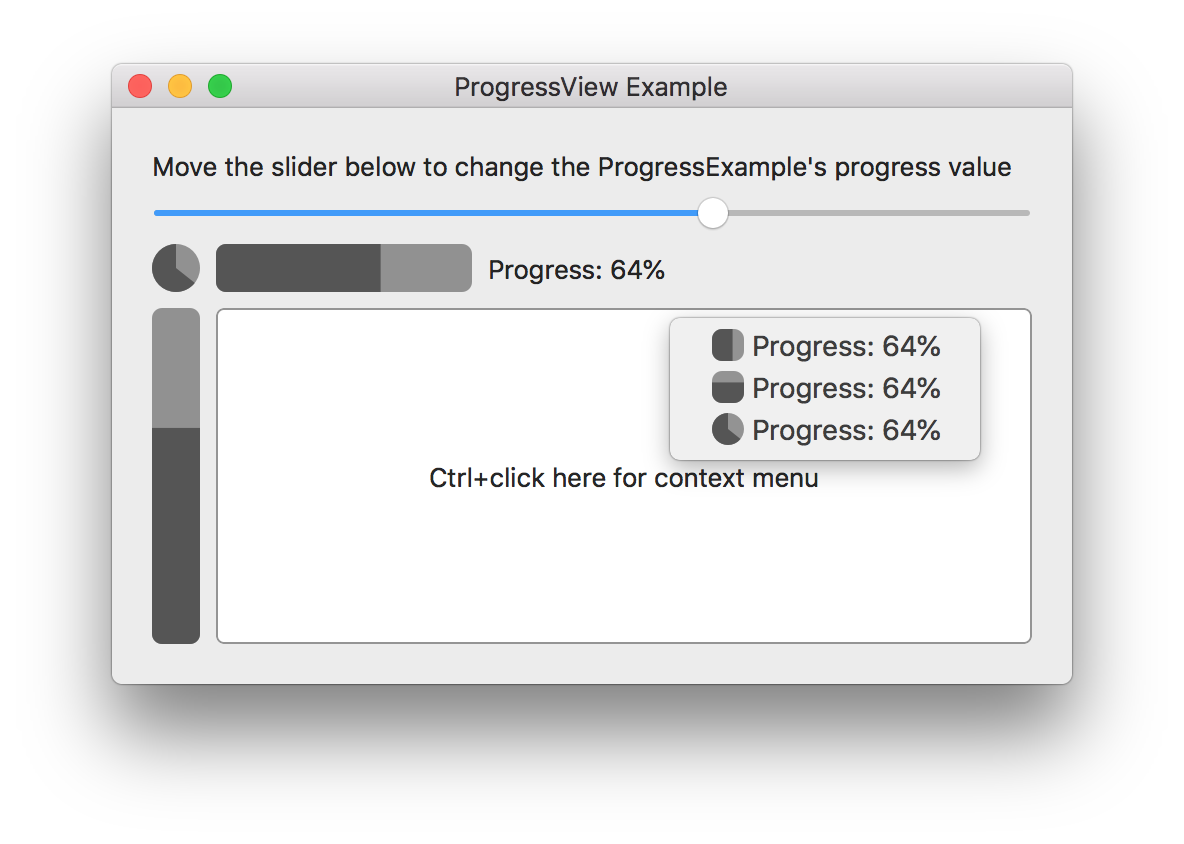
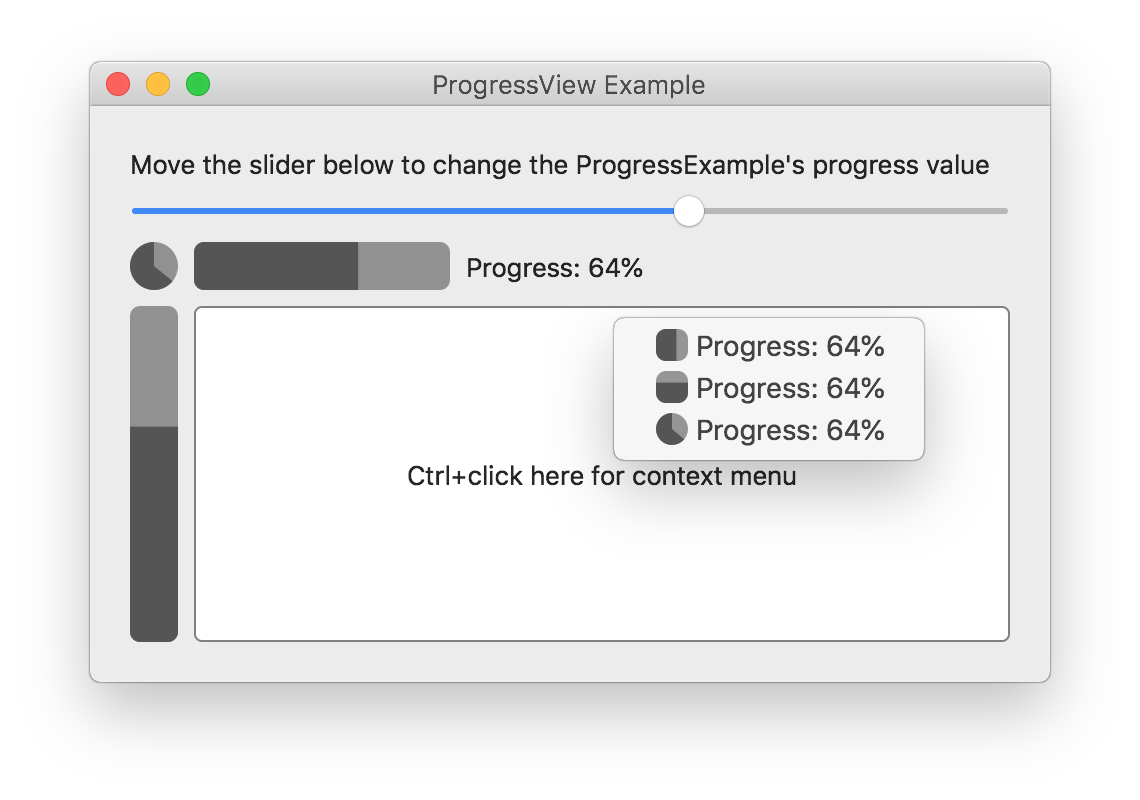
Now supporting Mojave’s dark mode

Changed region(s): [[0.0614, 0.0625, 0.9211, 0.875]]

diff --git a/Source/ProgressImage.swift b/Source/ProgressImage.swift
@@ -65,6 +65,24 @@ public class ProgressImage: NSImage {
 		}
 	}
 	
+	public var colorDarkMode = NSColor.lightGray {
+		didSet {
+			if let srgbColor = colorDarkMode.usingColorSpace(.sRGB) {
+				let red = srgbColor.cgColor.components?[0] ?? 0.5
+				let green = srgbColor.cgColor.components?[1] ?? 0.5
+				let blue = srgbColor.cgColor.components?[2] ?? 0.5
+				let alpha = srgbColor.cgColor.alpha
+				progressColorDarkMode = NSColor(red:red, green:green, blue:blue, alpha: alpha)
+				progressBackgroundColorDarkMode = NSColor(red:red, green:green, blue:blue, alpha: alpha * backgroundOpacity)
+			}
+			else {
+				progressColorDarkMode = NSColor(red:0.5, green:0.5, blue:0.5, alpha: 1.0)
+				progressBackgroundColorDarkMode = NSColor(red:0.5, green:0.5, blue:0.5, alpha: backgroundOpacity)
+			}
+			redrawProgressBar()
+		}
+	}
+	
 	public var progress:CGFloat = 0.0 {
 		didSet {
 			if progress < 0.0 { progress = 0.0 }
@@ -75,10 +93,12 @@ public class ProgressImage: NSImage {
 	
 	// MARK: - Private instance properties
 	
-	
 	private var progressColor = NSColor.darkGray
 	private var progressBackgroundColor = NSColor.darkGray
 	
+	private var progressColorDarkMode = NSColor.lightGray
+	private var progressBackgroundColorDarkMode = NSColor.lightGray
+
 	// MARK: - Initializers
 	
 	public init() {
@@ -121,12 +141,24 @@ public class ProgressImage: NSImage {
 		// Set default color (dark gray)
 		// This must be the last call, this will redraw the progressbar
 		self.color = NSColor.darkGray
+		self.colorDarkMode = NSColor.lightGray
 	}
 	
 	// MARK: - Custom draw function
 	
 	private func redrawProgressBar() {
 		let imgRect = NSRect(origin: CGPoint.zero, size: size)
+		
+		let isDarkModeEnabled:Bool
+		// !!! Uncomment for Xcode10 !!!
+//		if #available(macOS 10.14, *) {
+//			isDarkModeEnabled = (NSApp.effectiveAppearance.name == .darkAqua)
+//		} else {
+			isDarkModeEnabled = false
+//		}
+		
+		let drawColor = isDarkModeEnabled ? progressColorDarkMode : progressColor
+		let drawColorBackground = isDarkModeEnabled ? progressBackgroundColorDarkMode : progressBackgroundColor
 		
 		self.lockFocus()
 		let context = NSGraphicsContext.current?.cgContext
@@ -141,28 +173,28 @@ public class ProgressImage: NSImage {
 			
 			// Draw background
 			let bezierPath = NSBezierPath(roundedRect: imgRect, xRadius: cornerRadius, yRadius: cornerRadius)
-			progressBackgroundColor.setFill()
+			drawColorBackground.setFill()
 			bezierPath.fill()
 			
 			// Set mask for drawing the progress meter
 			context?.clip(to: CGRect(origin: CGPoint.zero, size: CGSize(width: size.width*progress, height: size.height)))
 			
 			// Draw progress meter (same frame as the background but masked and with different color)
-			progressColor.setFill()
+			drawColor.setFill()
 			bezierPath.fill()
 			
 		case .vertical:
 			
 			// Draw background
 			let bezierPath = NSBezierPath(roundedRect: imgRect, xRadius: cornerRadius, yRadius: cornerRadius)
-			progressBackgroundColor.setFill()
+			drawColorBackground.setFill()
 			bezierPath.fill()
 			
 			// Set mask for drawing the progress meter
 			context?.clip(to: CGRect(origin: CGPoint.zero, size: CGSize(width: size.width, height: size.height*progress)))
 			
 			// Draw progress meter (same frame as the background but masked and with different color)
-			progressColor.setFill()
+			drawColor.setFill()
 			bezierPath.fill()
 			
 		case .pie:
@@ -174,7 +206,7 @@ public class ProgressImage: NSImage {
 			let backgroundPath = NSBezierPath()
 			backgroundPath.appendArc(withCenter: center, radius: radius, startAngle: 0.0, endAngle: 360.0)
 			
-			progressBackgroundColor.setFill()
+			drawColorBackground.setFill()
 			backgroundPath.fill()
 			
 			// Draw the "pie graph"
@@ -188,7 +220,7 @@ public class ProgressImage: NSImage {
 			// Closing the path draws a line from the end point of the arc back to the center
 			piePath.close()
 			// Draw the pie
-			progressColor.setFill()
+			drawColor.setFill()
 			piePath.fill()
 			
 		}

diff --git a/Source/ProgressImageView.swift b/Source/ProgressImageView.swift
@@ -83,5 +83,14 @@ public class ProgressImageView: NSImageView {
 		// Set ProgressImage (set property of superclass, because setting in this class is disabled)
 		super.image = ProgressImage(type: type, size: size)
 	}
+
+	// !!! Uncomment for Xcode10 !!!
+//	public override func viewDidChangeEffectiveAppearance() {
+//		if let progress = progressImage?.progress {
+//			// Re-set the same progress
+//			// This will force the progress image to redraw itself
+//			progressImage?.progress = progress
+//		}
+//	}
 	
 }

diff --git a/README.md b/README.md
@@ -12,10 +12,46 @@ like in context menus or status item (item in menubar/menuextras).
 
 ProgressImage used in StatusItem in Menu Extras (menubar):
 ![Screenshot#1](https://github.com/gergelysanta/ProgressImage/blob/master/Screenshots/ProgressImageStatusItem.png "ProgressImage in Menu Extras")
-![Screenshot#2](https://github.com/gergelysanta/ProgressImage/blob/master/Screenshots/ProgressImageStatusItem.gif "ProgressImage in Menu Extras animated")
+
+and in macOS Mojave in dark mode:
+![Screenshot#2](https://github.com/gergelysanta/ProgressImage/blob/master/Screenshots/ProgressImageStatusItem_Dark.png "ProgressImage in Menu Extras in dark mode")
+
+In action:
+![Anim#1](https://github.com/gergelysanta/ProgressImage/blob/master/Screenshots/ProgressImageStatusItem.gif "ProgressImage in Menu Extras animated")
 
 ProgressImage used in NSImageView and in NSMenuItem in context menu:
 ![Screenshot#3](https://github.com/gergelysanta/ProgressImage/blob/master/Screenshots/ProgressImageContextMenu.png "ProgressImage in Context Menu")
+
+also in macOS Mojave in dark mode:
+![Screenshot#4](https://github.com/gergelysanta/ProgressImage/blob/master/Screenshots/ProgressImageContextMenu_Dark.png "ProgressImage in Context Menu in dark mode")
+
+
+## Important note for building in macOS Mojave with Xcode10
+
+Dark mode support uses API from SDK 10.14 which is available in Xcode10. As Xcode10 is only in Beta phase yet, 10.14 API calls were commented out so
+ProgressImage can be built in Xcode latest release (Xcode9). If you're building your project in Xcode10 for macOS Mojave, uncomment the following lines:
+
+`ProgressImageView.swift lines 88-94`:
+```swift
+// !!! Uncomment for Xcode10 !!!
+//	public override func viewDidChangeEffectiveAppearance() {
+//		if let progress = progressImage?.progress {
+//			// Re-set the same progress
+//			// This will force the progress image to redraw itself
+//			progressImage?.progress = progress
+//		}
+//	}
+```
+
+`ProgressImage.swift lines 154-156 and 158`:
+```swift
+// !!! Uncomment for Xcode10 !!!
+//		if #available(macOS 10.14, *) {
+//			isDarkModeEnabled = (NSApp.effectiveAppearance.name == .darkAqua)
+//		} else {
+			isDarkModeEnabled = false
+//		}
+```
 
 ## Example
 
